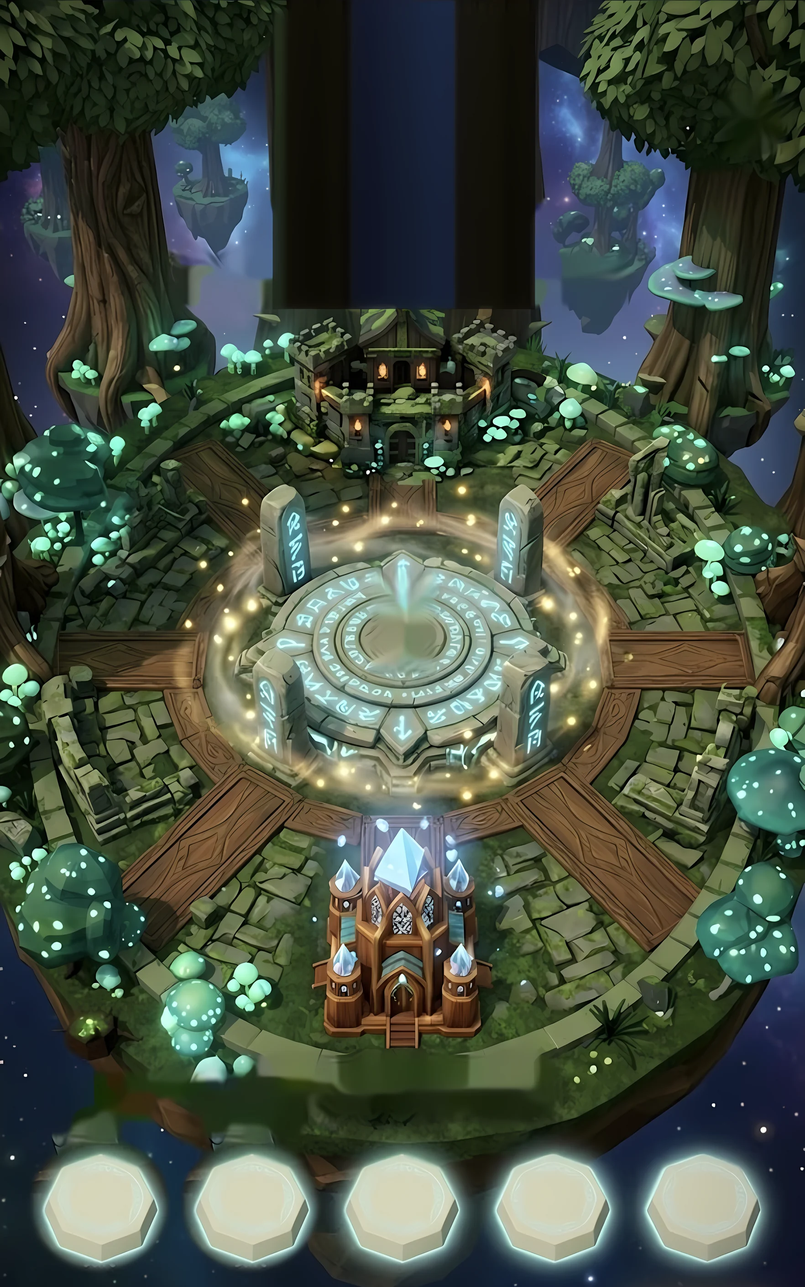
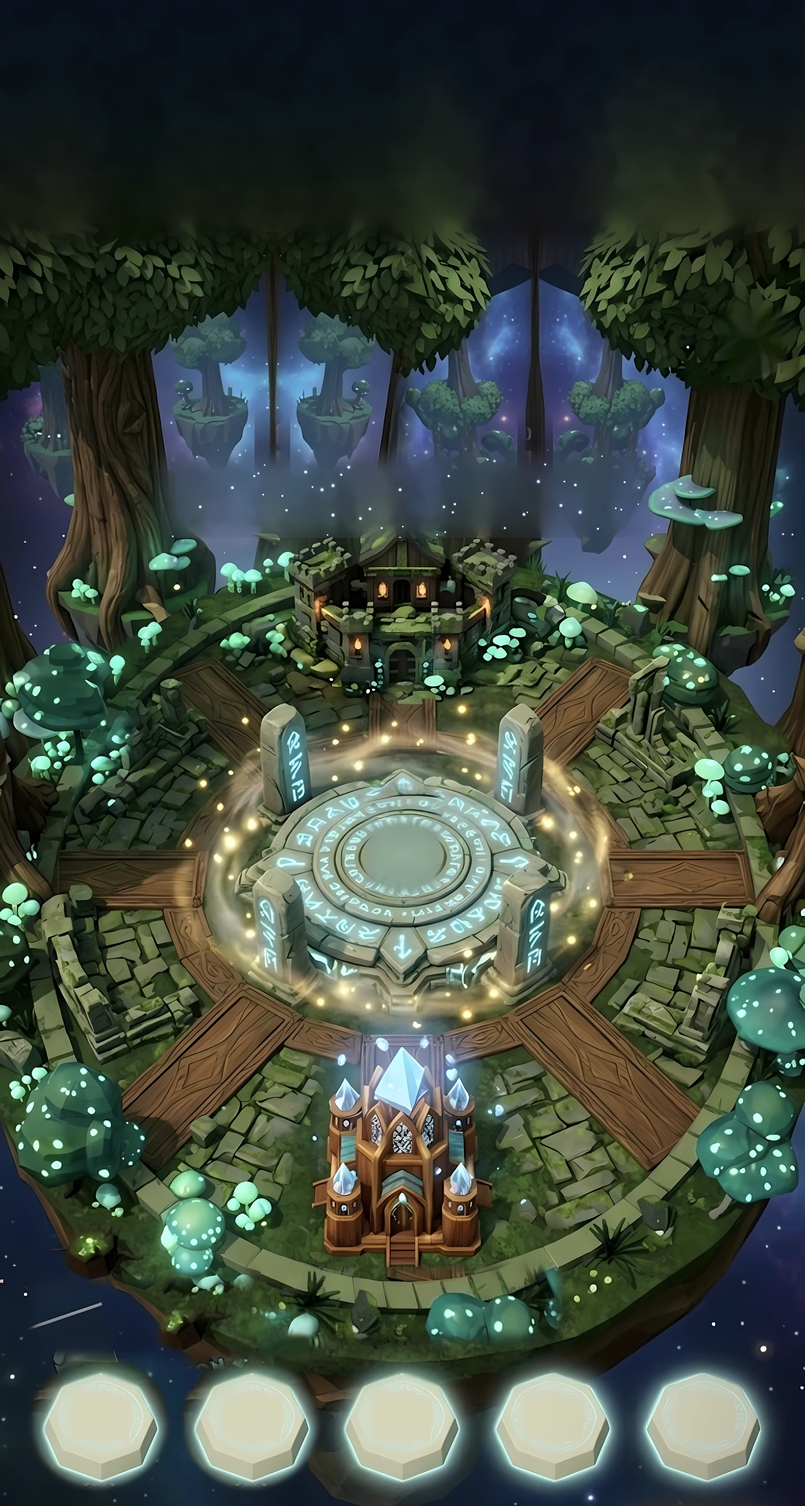
Monde 2 : image entièrement nettoyée (haut avec ciel et îles, centre du Cœur, bord de l'île, restes de texte), voûte sombre pour les écrans longs, animations en plus (nébuleuse, brume, lanternes) ; vérifié sur 3 tailles d'écran
Claude-Session: https://claude.ai/code/session_01XbgkGaSFMbzd2ZQStTnP9T

diff --git a/src/client/three/battleview.js b/src/client/three/battleview.js
@@ -14,20 +14,21 @@ export const TEAM = ['#3da9ff', '#ff4f5e'];
 // Arènes « peintes » : une illustration sert de décor, la 3D (héros, effets) est posée dessus avec une caméra
 // calculée pour coller exactement à l'image (sol, Sanctuaires, Cœur). Paramètres trouvés par ajustement.
 // Arènes peintes. Paramètres de caméra trouvés par ajustement sur des points de l'image (centre du Cœur, Sanctuaires, bords, socles).
-// sylve (19/11) : capture peinte de l'utilisateur nettoyée de son interface, agrandie 1,5× (Real-ESRGAN) ; coordonnées en pixels de l'image d'origine (W = 1176).
-const ARENA_ART = { sylve: { src: 'assets/arenas/sylve.webp', fx: 'sylve', W: 1176, H: 1920, fov: 40.4914, th: 0.7958, D: 39.1892, zt: 2.5842, off: -132.2128, k: 0.9082, imgH: 1880, benchY: 1759, benchZ: 13.818, benchX: [-5.3, -2.64, 0, 2.64, 5.3] },
+// sylve (19/11) : capture peinte de l'utilisateur nettoyée de son interface, voûte sombre ajoutée en haut (top = 320 px, pour les écrans longs), agrandie 1,5× (Real-ESRGAN) ;
+// coordonnées en pixels de l'image d'origine (W = 1176), décalées de `top` dans l'image finale.
+const ARENA_ART = { sylve: { src: 'assets/arenas/sylve.webp', fx: 'sylve', W: 1176, H: 1920, fov: 40.4914, th: 0.7958, D: 39.1892, zt: 2.5842, off: -452.2128, k: 0.9082, imgH: 2200, benchY: 2079, top: 320, benchZ: 13.818, benchX: [-5.3, -2.64, 0, 2.64, 5.3] },
   aurore: { src: 'assets/arenas/aurore.webp', W: 1176, H: 1920, fov: 40.4914, th: 0.8884, D: 44.3774, zt: 2.5842, off: -213.3714, k: 0.8555, imgH: 2190, benchY: 2050, benchZ: 17.705, benchX: [-6.211, -3.079, 0, 3.079, 6.158] } };
 // Sylve vivante : champignons et runes qui pulsent, feuillage qui ondule, poussière dorée autour du Cœur, étoiles qui scintillent
-const SYLVE_FS = `uniform sampler2D map; uniform float t, cheer; uniform vec2 res; varying vec2 vu;
+const SYLVE_FS = `uniform sampler2D map; uniform float t, cheer, top; uniform vec2 res; varying vec2 vu;
   float h21(vec2 p){ return fract(sin(dot(p, vec2(127.1, 311.7))) * 43758.5453); }
   void main(){
-    vec2 p = vec2(vu.x, 1.0 - vu.y), P = p * res, Q = P;
+    vec2 p = vec2(vu.x, 1.0 - vu.y), P = p * res - vec2(0.0, top), Q = P;
     vec4 c0 = texture2D(map, vu);
     // feuillage des grands arbres (haut et bords) : ondulation lente
     float leaf = clamp((c0.g - max(c0.r, c0.b)) * 4.0, 0.0, 1.0) * (1.0 - smoothstep(420.0, 620.0, P.y) * (1.0 - smoothstep(60.0, 0.0, min(P.x, res.x - P.x) - 120.0)));
     Q.x += leaf * (1.6 * sin(t * 1.3 + P.y * 0.035 + P.x * 0.012) + 0.8 * sin(t * 2.1 + P.x * 0.05));
     Q.y += leaf * 0.9 * sin(t * 1.7 + P.x * 0.03);
-    vec4 c = texture2D(map, vec2(Q.x / res.x, 1.0 - Q.y / res.y));
+    vec4 c = texture2D(map, vec2(Q.x / res.x, 1.0 - (Q.y + top) / res.y));
     // champignons et runes cyan : chaque touffe pulse à son rythme (plus fort quand le public acclame)
     float cy = clamp((min(c.g, c.b) - c.r) * 3.0, 0.0, 1.0) * smoothstep(0.45, 0.8, max(c.g, c.b));
     float ph = h21(floor(P / 46.0));
@@ -36,10 +37,18 @@ const SYLVE_FS = `uniform sampler2D map; uniform float t, cheer; uniform vec2 re
     vec2 dH = (P - vec2(588.0, 955.0)) / vec2(250.0, 170.0); float ring = smoothstep(1.35, 1.0, length(dH)) * smoothstep(0.55, 0.8, length(dH));
     float gold = clamp((c.r + c.g) * 0.5 - c.b, 0.0, 1.0) * smoothstep(0.65, 0.9, c.r);
     c.rgb += vec3(1.0, 0.85, 0.45) * gold * ring * 0.55 * pow(0.5 + 0.5 * sin(t * 3.0 + h21(floor(P / 9.0)) * 40.0), 3.0);
-    // étoiles du ciel
+    // ciel : étoiles qui scintillent + nébuleuse qui respire doucement
     float sky = clamp((c.b - max(c.r, c.g)) * 3.0, 0.0, 1.0) * step(dot(c.rgb, vec3(0.33)), 0.45);
     vec2 sc = floor(p * vec2(120.0, 190.0)); float st = h21(sc + 7.0);
     if (st > 0.985) { vec2 fr = fract(p * vec2(120.0, 190.0)) - 0.5; float tw = pow(max(0.0, sin(t * (1.5 + st * 3.0) + st * 40.0)), 6.0); c.rgb += sky * tw * smoothstep(0.25, 0.0, length(fr)) * vec3(0.9, 0.95, 1.0); }
+    c.rgb *= 1.0 + sky * 0.08 * sin(t * 0.5 + P.x * 0.004 + P.y * 0.003);
+    // brume derrière le château ennemi : elle glisse lentement
+    float mist = smoothstep(300.0, 380.0, P.y) * (1.0 - smoothstep(440.0, 480.0, P.y)) * smoothstep(200.0, 330.0, P.x) * (1.0 - smoothstep(850.0, 980.0, P.x));
+    float mn = h21(floor(vec2(P.x * 0.012 + t * 0.15, P.y * 0.03)));
+    c.rgb += mist * vec3(0.35, 0.45, 0.6) * 0.06 * (0.5 + 0.5 * sin(t * 0.6 + P.x * 0.01)) * (0.6 + 0.4 * mn);
+    // lanternes du château ennemi : flamme qui vacille
+    float warm = clamp((c.r - c.b) * 2.0, 0.0, 1.0) * smoothstep(0.55, 0.85, c.r) * step(P.y, 720.0) * step(420.0, P.y);
+    c.rgb += vec3(1.0, 0.6, 0.25) * warm * 0.25 * (0.6 + 0.4 * sin(t * 9.0 + h21(floor(P / 20.0)) * 20.0));
     gl_FragColor = c;
   }`;
 const BENCH_Z = RY + 3.1, BENCH_X = [-4.6, -2.3, 0, 2.3, 4.6];
@@ -183,7 +192,7 @@ export class BattleView {
     this.bgU = { map: { value: tex }, t: { value: 0 }, cheer: { value: 0 },
       outE: { value: E(588, 1090, 575, 520) }, inE: { value: E(588, 1095, 455, 352) }, floorE: { value: E(588, 1095, 440, 340) },
       castA: { value: new THREE.Vector4(470 / A.W, 530 / A.imgH, 710 / A.W, 780 / A.imgH) }, castB: { value: new THREE.Vector4(380 / A.W, 1390 / A.imgH, 800 / A.W, 1790 / A.imgH) },
-      islE: { value: E(588, 1480, 590, 470) }, res: { value: new THREE.Vector2(A.W, A.imgH) } };
+      islE: { value: E(588, 1480, 590, 470) }, res: { value: new THREE.Vector2(A.W, A.imgH) }, top: { value: A.top || 0 } };
     const mat = new THREE.ShaderMaterial({ uniforms: this.bgU, transparent: true, depthWrite: false, toneMapped: false,
       vertexShader: 'varying vec2 vu; void main(){ vu = uv; gl_Position = projectionMatrix * modelViewMatrix * vec4(position,1.0); }',
       fragmentShader: A.fx === 'sylve' ? SYLVE_FS : `uniform sampler2D map; uniform float t, cheer; uniform vec4 outE, inE, floorE, castA, castB, islE; uniform vec2 res; varying vec2 vu;

diff --git a/CLAUDE.md b/CLAUDE.md
@@ -51,7 +51,7 @@ Cahier des charges du 13/11/2026 ; plan en 7 phases : `docs/ROADMAP.md` ; reste 
 - Monde 1 (Aurore) = colisée cosmique (d'après une image de l'utilisateur) : ciel `nebulaDome()` (world.js, pas de gouffre ni d'îlots par défaut), sol de pierre + grande mosaïque dorée aux runes bleues (`groundTexture`, `cosmic`), pas d'herbe ni d'arbres, `buildArena(..., { a0: .70, a1: 2.30, tiers: 3, gate: false })`, bannières à blasons `bannerTex`, 6 stèles de runes, îles satellites + statue de dragon doré (`surroundings.aurore`). La consigne de combat se place sous la barre ennemie.
 - Sanctuaires : `fortress()` dans `battleview.js` (remparts crénelés, 4 tours à toits bleus/rouges, cristaux, porte vers le Cœur) + temple au centre ; la tienne plus basse (`hk` 0,66) pour ne pas cacher le combat.
 - Arènes peintes (`ARENA_ART` dans `battleview.js`, 1re : `assets/arenas/aurore.webp` = image de l’utilisateur nettoyée de son interface) : l’image est dessinée sous la 3D (`buildArt`, option `under` de `createComposer`), caméra `paintedCamera` calée sur l’image (paramètres trouvés par ajustement : fov, th, D, zt, off ; profondeur ×`k` via `zk` dans `toWorld/toSim`), socles du Cercle = ceux de l’image (`benchZ`, `benchX`). Décor 3D, forteresses, socles et base du Cœur cachés. Pour une nouvelle image : relever les points (centre, bords, tours, socles), refaire l’ajustement.
-- Monde 2 (Sylve) peint (19/11) : `ARENA_ART.sylve` = `assets/arenas/sylve.webp` (capture peinte de l'utilisateur recadrée sur la zone de jeu, interface effacée : socles 1-2 recopiés du socle 3, troncs prolongés derrière le chrono, reste par inpainting ; agrandie 1,5× Real-ESRGAN ; coordonnées en pixels de l'image d'origine W 1176). Caméra ajustée (Nelder-Mead hors dépôt) sur Cœur (587,975), Sanctuaires (587,640)/(587,1430), bords x ±7,6 → 105/1070 ; socles = points de l'image (y 1759) reprojetés au sol. Shader `SYLVE_FS` (fx 'sylve' : champignons/runes cyan qui pulsent, feuillage qui ondule, poussière dorée autour du Cœur, étoiles), lucioles vert-or, pas de dragon.
+- Monde 2 (Sylve) peint (19/11) : `ARENA_ART.sylve` = `assets/arenas/sylve.webp` (capture peinte de l'utilisateur recadrée sur la zone de jeu, interface effacée : socles 1-2 recopiés du socle 3, haut = peinture des côtés en miroir + bande de ciel/brume, centre du Cœur (« I ») = anneau de runes tourné + disque de pierre, bord bas de l'île = anneau tourné, restes par inpainting ; voûte sombre ajoutée en haut (`top` 320 px) pour les écrans longs ; agrandie 1,5× Real-ESRGAN ; coordonnées en pixels de l'image d'origine W 1176, décalées de `top`). Caméra ajustée (Nelder-Mead hors dépôt) sur Cœur (587,975), Sanctuaires (587,640)/(587,1430), bords x ±7,6 → 105/1070 ; socles = points de l'image (y 1759) reprojetés au sol. Shader `SYLVE_FS` (fx 'sylve' : champignons/runes cyan qui pulsent, feuillage qui ondule, poussière dorée autour du Cœur, étoiles, nébuleuse qui respire, brume qui glisse, lanternes qui vacillent), lucioles vert-or, pas de dragon.
 - Arène peinte vivante : shader du fond (`bgU` : public qui saute par cellules, + fort sur `artCheer`, runes/cristaux bleus qui pulsent, étoiles qui scintillent ; zones = ellipses/boîtes en pixels de l’image) + dragon 3D et poussière magique (`artUps`). Contours : épaisseur en uniform `olT` (un seul programme). `forceContextLoss` différé de 1,5 s (il bloquait les changements d’onglet).
 - Arène peinte (suite) : dans le shader, la statue de dragon bat des ailes (rotation des pixels autour des épaules L/R, pixels de l’image), respire + reflet doré ; le vide sous l’île tourbillonne (deux échantillons tournés en fondu autour de V=(588,1900), masque `islE`) + vagues d’énergie.
 - Image de l’arène : zones d’interface effacées par interpolation verticale + bruit de nébuleuse + étoiles (remplacé le 14/11 par un « patch quilting » : chaque trou est rempli avec des petits morceaux nets de l’image voisine). Tourbillon limité au bas (`low`), étoiles en spirale (cellules polaires en longueur d’arc) + volutes `vn()`.
